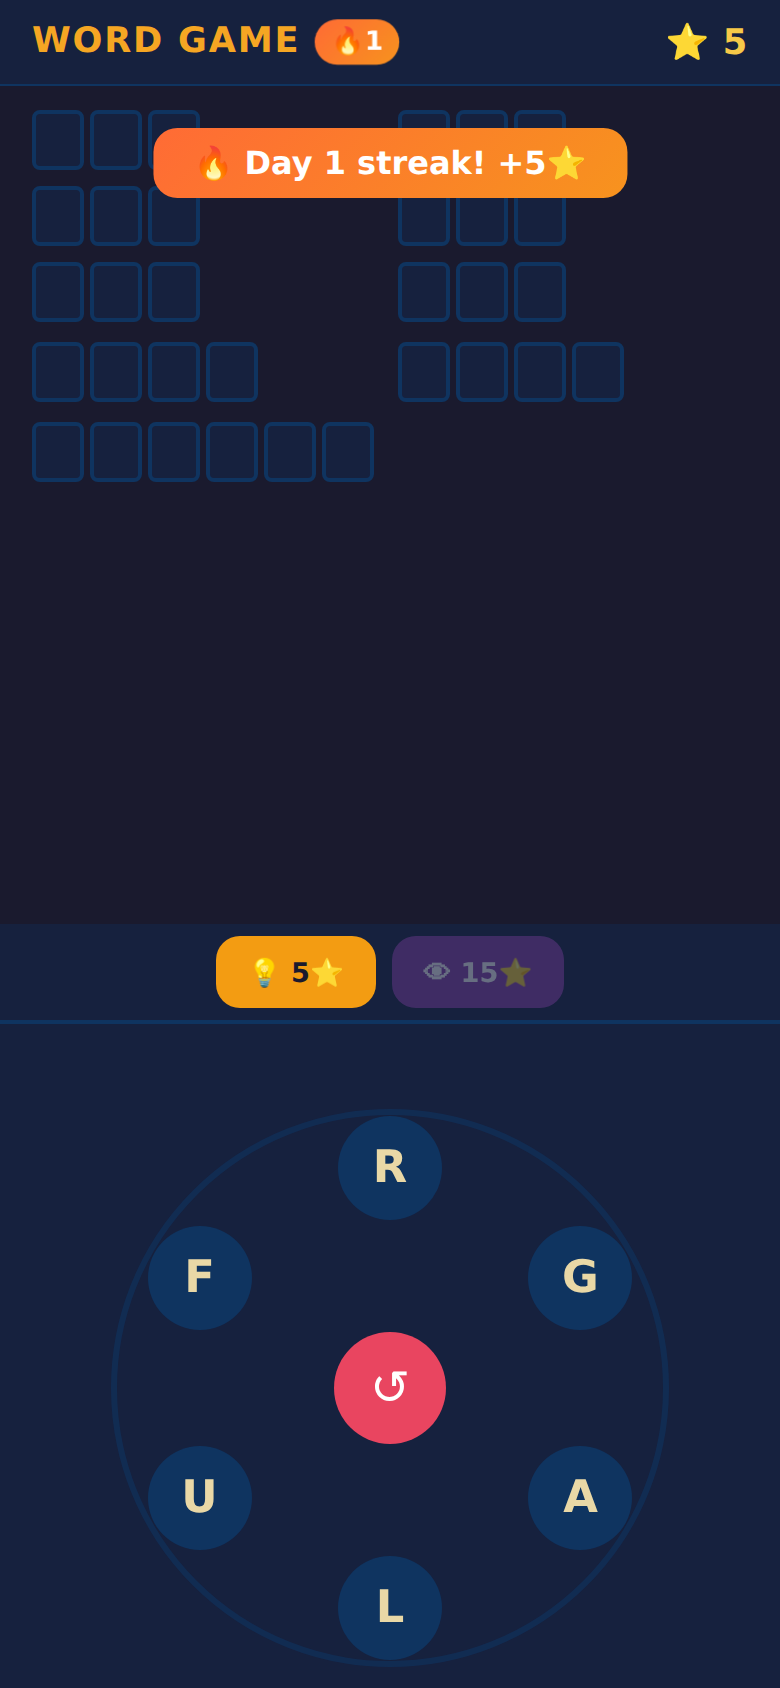
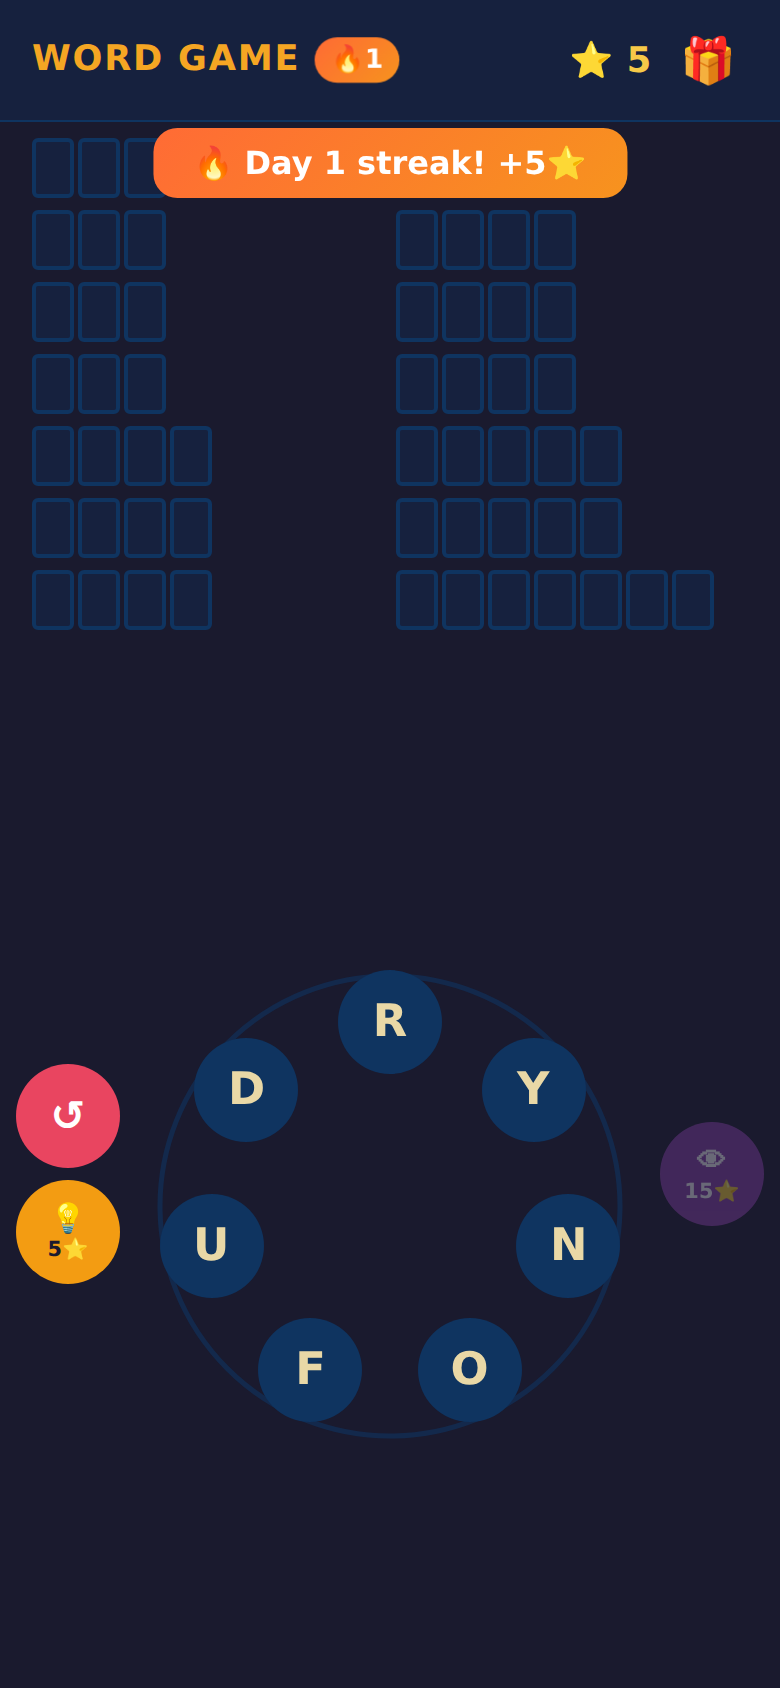
Fix bonus words reset on next puzzle and centre wheel in PWA layout
- Preserve bonus words across puzzles (they were being cleared to [] on
  next puzzle advance; now carry state.bonusWords forward so the player's
  collected bonus words accumulate across the session)
- Fix PWA layout gap: change game-main to flex: 0 1 auto so it shrinks
  to content height rather than consuming all remaining space; give
  game-footer flex: 1 with min-height: 300px so the wheel section claims
  the leftover height and align-items/justify-content: center vertically
  centres the wheel within it

https://claude.ai/code/session_012sPreSjD3AqtyUeqpgwjja

diff --git a/src/styles/game.css b/src/styles/game.css
@@ -145,7 +145,7 @@
 
 /* ─── Main scroll area (word grid) ─────────────────────── */
 .game-main {
-  flex: 1;
+  flex: 0 1 auto;
   overflow-y: auto;
   padding: 8px 16px;
   -webkit-overflow-scrolling: touch;
@@ -153,7 +153,8 @@
 
 /* ─── Footer (wheel + side buttons) ─────────────────────── */
 .game-footer {
-  flex-shrink: 0;
+  flex: 1;
+  min-height: 300px;
   display: flex;
   align-items: center;
   justify-content: center;

diff --git a/src/components/Game.tsx b/src/components/Game.tsx
@@ -182,7 +182,7 @@ export default function Game() {
       JSON.stringify({
         puzzleIndex: nextIndex,
         foundWords: [],
-        bonusWords: [],
+        bonusWords: state.bonusWords,
         score: state.score,
         revealedHints: [],
         revealedWords: [],
